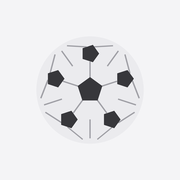
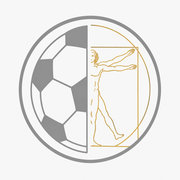
Asta Live Manager v32.9

diff --git a/tests/v32-9-static-node.js b/tests/v32-9-static-node.js
@@ -1,0 +1,50 @@
+const fs = require('fs');
+const path = require('path');
+const assert = require('assert');
+
+const ROOT = path.resolve(__dirname, '..');
+
+function pngSize(file) {
+  const b = fs.readFileSync(file);
+  assert.strictEqual(b.toString('ascii', 1, 4), 'PNG', `${file} non è un PNG valido`);
+  return { width: b.readUInt32BE(16), height: b.readUInt32BE(20) };
+}
+
+const expected = {
+  'icon-192.png': [192, 192],
+  'icon-512.png': [512, 512],
+  'icon-maskable-512.png': [512, 512],
+  'apple-touch-icon.png': [180, 180],
+  'favicon.png': [64, 64],
+};
+
+for (const [name, dims] of Object.entries(expected)) {
+  const f = path.join(ROOT, 'icons', name);
+  assert.ok(fs.existsSync(f), `asset mancante: ${name}`);
+  const s = pngSize(f);
+  assert.deepStrictEqual([s.width, s.height], dims, `dimensioni errate: ${name}`);
+}
+
+const manifest = JSON.parse(fs.readFileSync(path.join(ROOT, 'manifest.json'), 'utf8'));
+const declared = new Map(manifest.icons.map(i => [i.src, i]));
+for (const src of ['icons/icon-192.png', 'icons/icon-512.png', 'icons/icon-maskable-512.png']) {
+  assert.ok(declared.has(src), `manifest non dichiara ${src}`);
+  assert.ok(fs.existsSync(path.join(ROOT, src)), `manifest punta a file mancante: ${src}`);
+}
+assert.strictEqual(declared.get('icons/icon-192.png').sizes, '192x192');
+assert.strictEqual(declared.get('icons/icon-512.png').sizes, '512x512');
+assert.strictEqual(declared.get('icons/icon-maskable-512.png').sizes, '512x512');
+assert.strictEqual(declared.get('icons/icon-maskable-512.png').purpose, 'maskable');
+
+const html = fs.readFileSync(path.join(ROOT, 'index.html'), 'utf8');
+assert.ok(html.includes('href="icons/apple-touch-icon.png"'));
+assert.ok(html.includes('href="icons/favicon.png"'));
+
+const sw = fs.readFileSync(path.join(ROOT, 'service-worker.js'), 'utf8');
+assert.ok(sw.includes("const CACHE_NAME = 'fantacalcio-checklist-v32.9';"));
+for (const src of [
+  './icons/icon-192.png', './icons/icon-512.png', './icons/icon-maskable-512.png',
+  './icons/apple-touch-icon.png', './icons/favicon.png'
+]) assert.ok(sw.includes(src), `service worker non precachea ${src}`);
+
+console.log('v32.9 static: OK');

diff --git a/service-worker.js b/service-worker.js
@@ -1,4 +1,4 @@
-const CACHE_NAME = 'fantacalcio-checklist-v32.8';
+const CACHE_NAME = 'fantacalcio-checklist-v32.9';
 const APP_SHELL = [
   './',
   './index.html',

diff --git a/README.md b/README.md
@@ -1,3 +1,13 @@
+# Fantacalcio Checklist PWA v32.9
+
+## v32.9 — nuova identità visiva dell’app
+
+- Sostituita l’icona PWA con il nuovo emblema approvato: metà pallone stilizzato grigio a sinistra e metà destra di Uomo Vitruviano oro a destra, racchiusi in una circonferenza continua.
+- Palette limitata a bianco/quasi bianco, grigi e oro; resa flat, senza profondità, ombre o nuovi elementi grafici.
+- Aggiornati `icon-192.png`, `icon-512.png`, `icon-maskable-512.png`, `apple-touch-icon.png` e `favicon.png`; la variante maskable usa una safe area più conservativa.
+- Nessuna modifica funzionale: UI v32.8, Mappa Slot, dati, backup v5, IndexedDB, import XLSX e logiche d’asta restano invariati.
+- Cache aggiornata a `fantacalcio-checklist-v32.9`.
+
 # Fantacalcio Checklist PWA v32.8
 
 ## v32.8 — microfasce più leggibili

diff --git a/tests/V32.9-ACCEPTANCE.md b/tests/V32.9-ACCEPTANCE.md
@@ -1,0 +1,18 @@
+# v32.9 — Acceptance
+
+Release esclusivamente icon / branding.
+
+## Asset
+- `icons/icon-192.png`: 192×192.
+- `icons/icon-512.png`: 512×512.
+- `icons/icon-maskable-512.png`: 512×512, simbolo contenuto nella safe area.
+- `icons/apple-touch-icon.png`: 180×180.
+- `icons/favicon.png`: 64×64.
+- Tutti gli asset derivano dallo stesso master approvato: metà pallone grigio / metà Uomo Vitruviano oro.
+
+## Invarianti
+- `manifest.json` invariato: i path e i purpose già corretti restano identici.
+- `index.html` invariato: favicon e Apple Touch Icon continuano a puntare agli stessi path.
+- Nessuna modifica a `app.js`, `style.css`, `db.js`, `auction-logic.js`, `players.js`, `xlsx-import.js`.
+- Backup v5 e modello dati invariati.
+- Cache Service Worker: `fantacalcio-checklist-v32.9`.
